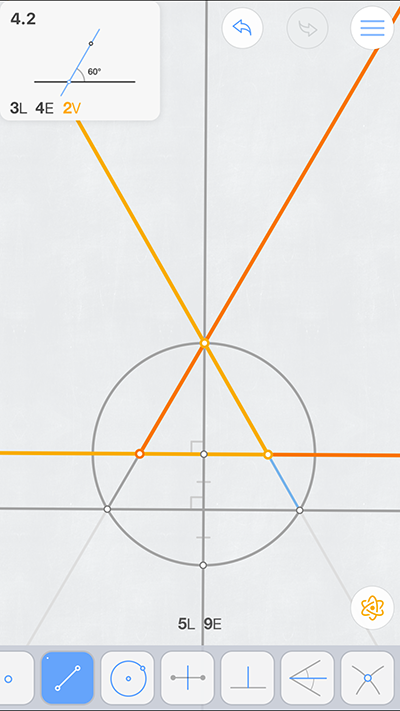
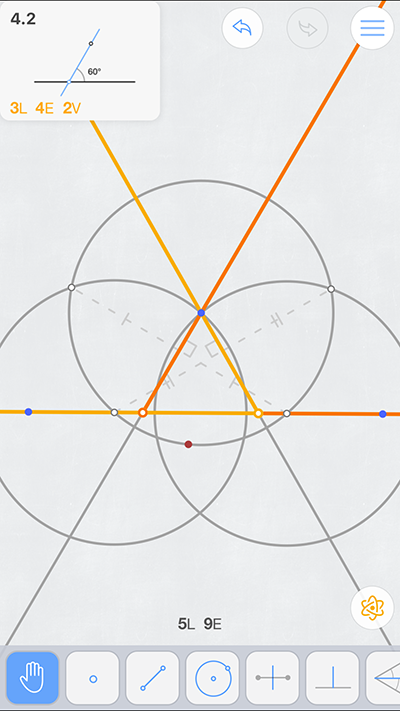
添加解答

diff --git a/Euclidea3.md b/Euclidea3.md
@@ -135,7 +135,8 @@ _注：[4V，左右上下可各画一个菱形得到隐藏星星。](solving/Euc
 _注：[2V，画出左侧另一个解得到隐藏星星。](solving/Euclidea3/4.1.png)_  
 
 - 4.2 60度角 *3L 4E 2V* ⭐  
-*解：3L4E解答还没想出来。*  
+解：[3L，如图用垂分线工具求得解。](solving/Euclidea3/4.2.1.png)  
+解：[4E，如图求得圆周上的交点。](solving/Euclidea3/4.2.2.png)  
 _注：[2V，左右各画一个角度得到隐藏星星。](solving/Euclidea3/4.2.3.png)_  
 
 - 4.3 等边三角形外接圆 *5L 6E*  
@@ -143,7 +144,8 @@ _注：[2V，左右各画一个角度得到隐藏星星。](solving/Euclidea3/4.
 解：[6E，圆外切等边三角形，高是1.5倍直径长。如图得到三条边。](solving/Euclidea3/4.3.2.png)  
 
 - 4.4 圆内接等边三角形 *5L 7E*  
-*解：5L7E解答还没想出来。*  
+*解：5L解答还没想出来。*  
+解：[7E，如图找到60度角和120度角在圆上的交点。](solving/Euclidea3/4.4.2.png)  
 
 - 教程：交点工具 *0L 0E*  
 解：简单题，略。  
@@ -158,8 +160,9 @@ _注：[2V，左右各画一个角度得到隐藏星星。](solving/Euclidea3/4.
 解：[3L3E，参考后面的知识点，AC长度即为√3。](solving/Euclidea3/4.7.1.png)[解题知识点👀](solving/Euclidea3/4.7.2.png)  
 
 - 4.8 作15度角 *3L 5E 2V*   
-*解：3L5E解答还没想出来。*  
-_注：2V，上下各做一个15度角得到隐藏星星。_  
+解：[3L，如图作圆，然后角平分30度角。](solving/Euclidea3/4.8.1.png)  
+解：[5E，弧对应的圆心角是圆周角的一倍。找到30度圆心角。](solving/Euclidea3/4.8.2.png)  
+_注：[2V，上下各做一个15度角得到隐藏星星。](solving/Euclidea3/4.8.3.png)_  
 
 - 4.9 已知对边中点求正方形 *6L 10E*  
 *解：6L解答还没想出来。*  
